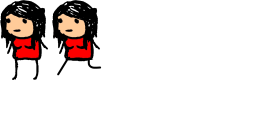
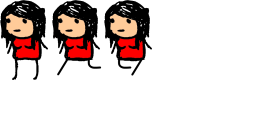
ruby goes around randomly

Changed region(s): [[0.4062, 0.0, 0.5938, 0.5938]]

diff --git a/main.cpp b/main.cpp
@@ -67,6 +67,9 @@ int CALLBACK WinMain(__in HINSTANCE hInstance, __in HINSTANCE hPrevInstance, __i
 	const f32 kVel = 250.f;
 	const f32 kJump = 550.0f;
 
+	enum Direction { kNone, kLeft, kRight, kBottom, kTop };
+	enum Character { kPerro, kRuby };
+
 	// state
 
 	f32 x = 260, y = 200, angle = 0;
@@ -85,8 +88,6 @@ int CALLBACK WinMain(__in HINSTANCE hInstance, __in HINSTANCE hPrevInstance, __i
 	bool canJump = false;
 	collision::info collides;
 
-	vectorf camera(260.0f, 200.0f);
-
 	// ruby
 	state rubyCur(vectorf(560.0f, 200.0f), vectorf(0.0f, 0.0f));
 	state rubyPrev(rubyCur);
@@ -94,8 +95,17 @@ int CALLBACK WinMain(__in HINSTANCE hInstance, __in HINSTANCE hPrevInstance, __i
 	vectorf rubyAcc(0, 9.8f * 150.0f);
 	collision::info rubyCollides;
 	ui32 rubyFrame = 0;
-	ui32 rubyFlip = false;
+	bool rubyFlip = false;
 	f32 rubyAnimTime = -1.0f;
+	f32 rubyAiTime = 0.0f;
+	bool rubyWillJump = false;
+	bool rubyCollided = false;
+	Direction rubyWalkDirection = kNone;
+	Direction rubyWillJumpDirection = kNone;
+
+	// camera
+	bool keySpacePressed = false;
+	Character cameraBindedTo = kPerro;
 
 	// loop
 
@@ -123,14 +133,27 @@ int CALLBACK WinMain(__in HINSTANCE hInstance, __in HINSTANCE hPrevInstance, __i
 		currentTime = newTime;
 		accumulator += frameTime;
 
-		
-
 		while (accumulator >= dt)
 		{
 			if (glfwGetKey(GLFW_KEY_ESC) || !glfwGetWindowParam(GLFW_OPENED))
 			{
 				running = false;
 			}
+
+			if (glfwGetKey(GLFW_KEY_SPACE))
+			{
+				if (!keySpacePressed)
+				{
+					keySpacePressed = true;
+					cameraBindedTo = (cameraBindedTo == kPerro ? kRuby : kPerro);
+				}
+			}
+			else
+			{
+				keySpacePressed = false;
+			}
+
+			// perro input
 
 			prevState = curState;
 
@@ -158,11 +181,75 @@ int CALLBACK WinMain(__in HINSTANCE hInstance, __in HINSTANCE hPrevInstance, __i
 			curState.position.x += curState.velocity.x * dt;
 			curState.position.y += curState.velocity.y * dt;
 
+			// ruby
+
 			rubyPrev = rubyCur;
 
-			if (rubyCollides.bottom() && rand() % 1000 < 10)
+			if (rubyCollides)
 			{
+				rubyCollided = true;
+			}
+
+			if (rubyCollides.left())
+			{
+				rubyWillJump = true;
+				rubyWillJumpDirection = rand() % 10 < 7 ? kRight : kLeft;
+			}
+			else if (rubyCollides.right())
+			{
+				rubyWillJump = true;
+				rubyWillJumpDirection = rand() % 10 < 7 ? kLeft : kRight;
+			}
+
+			if (rubyAiTime >= 1.0f)
+			{
+				rubyAiTime = 0.0f;
+				
+				if (rubyCollides.bottom() && (rand() % 100 < 40))
+				{
+					rubyCur.velocity.y = -kJump;
+				}
+
+				if (rubyWalkDirection == kNone || rubyCollided || (rand() % 100 < 10))
+				{
+					int r = rand() % 3;
+
+					if (r == 0)
+					{
+						rubyWalkDirection = kRight;
+					}
+					else if (r == 1)
+					{
+						rubyWalkDirection = kLeft;
+					}
+					else
+					{
+						rubyWalkDirection = kNone;
+					}
+				}
+			}
+
+			rubyAiTime += dt;
+
+			if (rubyCollides.bottom() && rubyWillJump)
+			{
+				rubyWillJump = false;
 				rubyCur.velocity.y = -kJump;
+				rubyWalkDirection = rubyWillJumpDirection;
+				rubyAiTime = 0.0f;
+			}
+
+			rubyCur.velocity.x = 0.0f;
+
+			if (rubyWalkDirection == kLeft)
+			{
+				rubyFlip = false;
+				rubyCur.velocity.x = -kVel;
+			}
+			else if (rubyWalkDirection == kRight)
+			{
+				rubyFlip = true;
+				rubyCur.velocity.x = kVel;
 			}
 
 			rubyCur.velocity.x += rubyAcc.x * dt;
@@ -253,7 +340,7 @@ int CALLBACK WinMain(__in HINSTANCE hInstance, __in HINSTANCE hPrevInstance, __i
 				if (rubyAnimTime >= 0.1f)
 				{
 					rubyFrame++;
-					if (rubyFrame > 1) rubyFrame = 1;
+					if (rubyFrame > 2) rubyFrame = 1;
 					rubyAnimTime = 0.0f;
 				}
 			}
@@ -271,20 +358,23 @@ int CALLBACK WinMain(__in HINSTANCE hInstance, __in HINSTANCE hPrevInstance, __i
 		rubyInt.position.x = round(rubyCur.position.x * alpha + rubyPrev.position.x * (1.0f - alpha));
 		rubyInt.position.y = round(rubyCur.position.y * alpha + rubyPrev.position.y * (1.0f - alpha));
 
+		const vectorf &cameraPosition = cameraBindedTo == kPerro ? intState.position : rubyInt.position;
+
 		vectorf mapOffset(
-			min(static_cast<f32>(MAP::getWidth() * MAP::getTileSize()), max(0, intState.position.x - screenSize.width / 2)),
-			min(static_cast<f32>(MAP::getHeight() * MAP::getTileSize()), max(0, intState.position.y - screenSize.height / 2))
+			min(static_cast<f32>(MAP::getWidth() * MAP::getTileSize()), max(0, cameraPosition.x - screenSize.width / 2)),
+			min(static_cast<f32>(MAP::getHeight() * MAP::getTileSize()), max(0, cameraPosition.y - screenSize.height / 2))
 		);
 
 		// render
+
 		glClear(GL_COLOR_BUFFER_BIT);
 
 		GFX::drawGradient(0, 0, 640, 480, GFX::RGBAf(0, 0, 1, 1), GFX::RGBAf(1, 1, 1, 1));
 
 		drawMap(mapOffset);
 
-		GFX::drawTiledSprite(TX::PerroFrames, frame, intState.position.x - mapOffset.x, intState.position.y - mapOffset.y, angle, 1.0f, flip);
 		GFX::drawTiledSprite(TX::Ruby, rubyFrame, rubyInt.position.x - mapOffset.x, rubyInt.position.y - mapOffset.y, angle, 1.0f, rubyFlip);
+		GFX::drawTiledSprite(TX::PerroFrames, frame, intState.position.x - mapOffset.x, intState.position.y - mapOffset.y, angle, 1.0f, flip);
 
 		glfwSwapBuffers();
 
